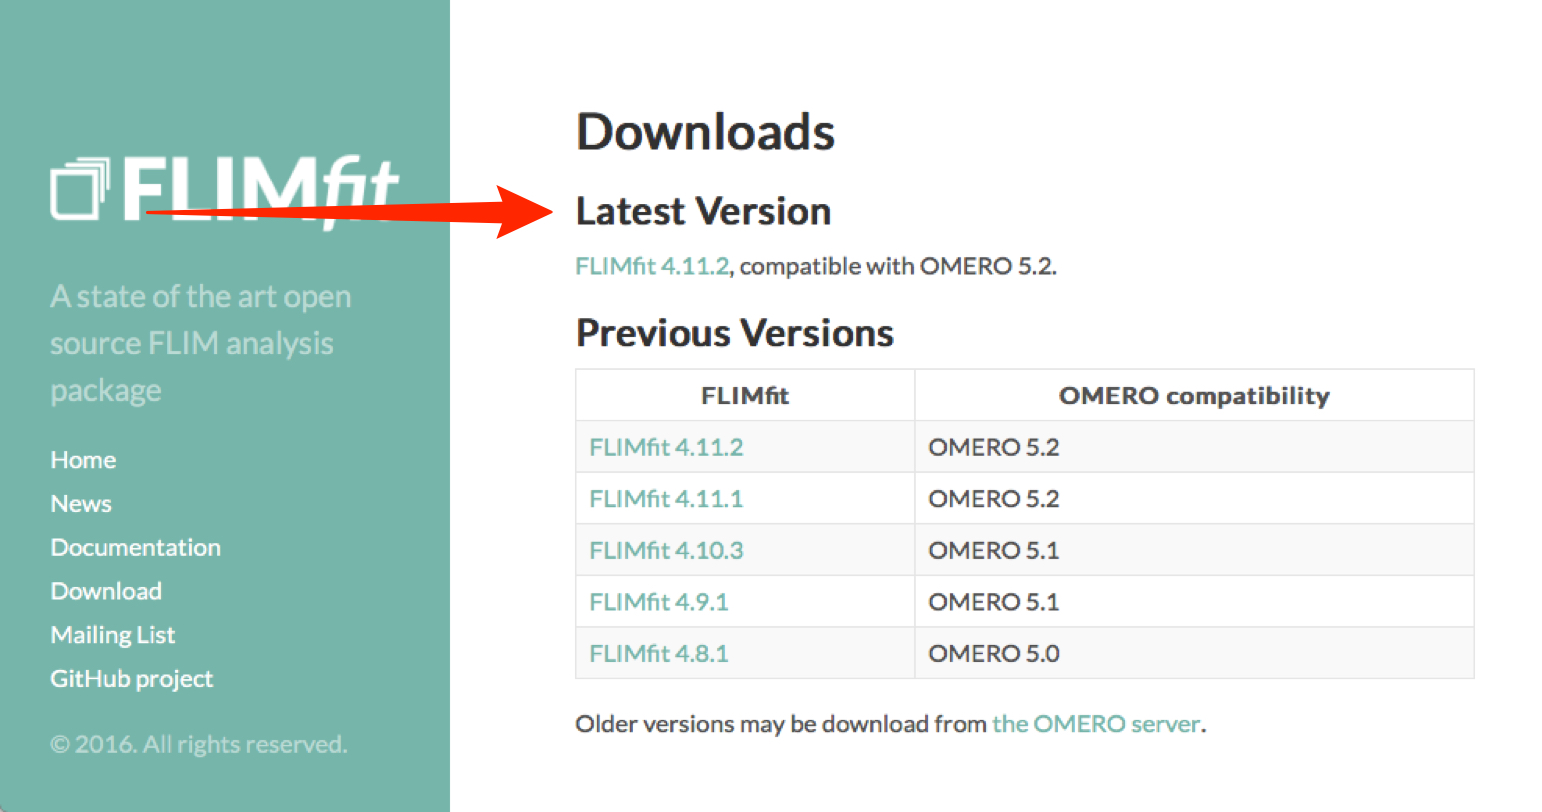
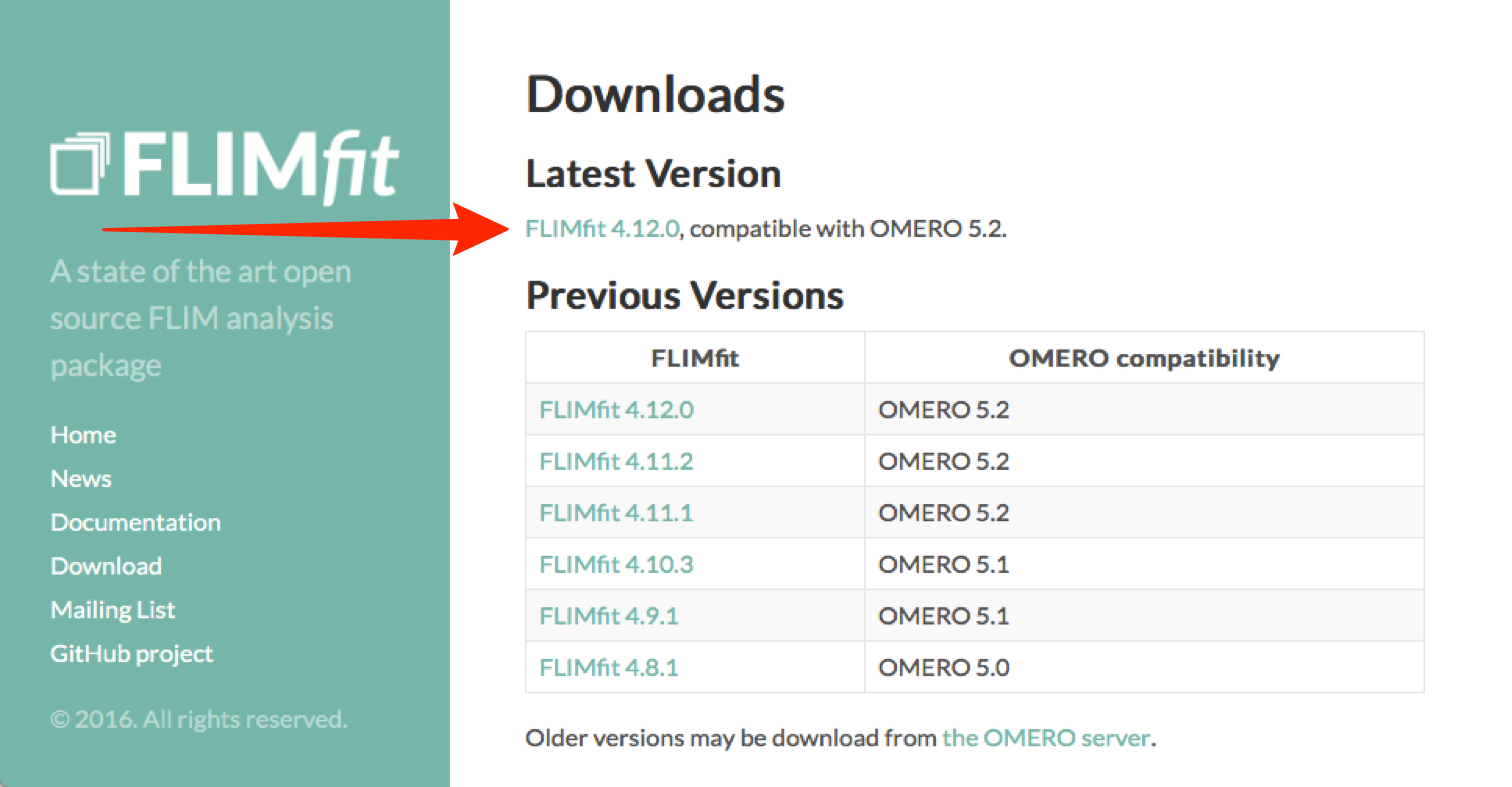
Update downloads page screenshot to version 4.12

diff --git a/flimfit.html b/flimfit.html
@@ -76,7 +76,7 @@ description: FLIMfit is a software tool from, Imperial College London, that is d
 <div class="line"><br /></div> <!-- end #line -->
 </div> <!-- end #line-block -->
 
-<img alt="../images/flimfitDownloads.jpg" class="align-left" src="images/flimfitDownloads.jpg" style="width: 85%;" />
+<img alt="../images/flimfitDownloads.jpg" class="align-left" src="images/flimfitDownloads.jpg" style="width: 100%;" />
 
 <div class="line-block">
 <div class="line"><br /></div> <!-- end #line -->
